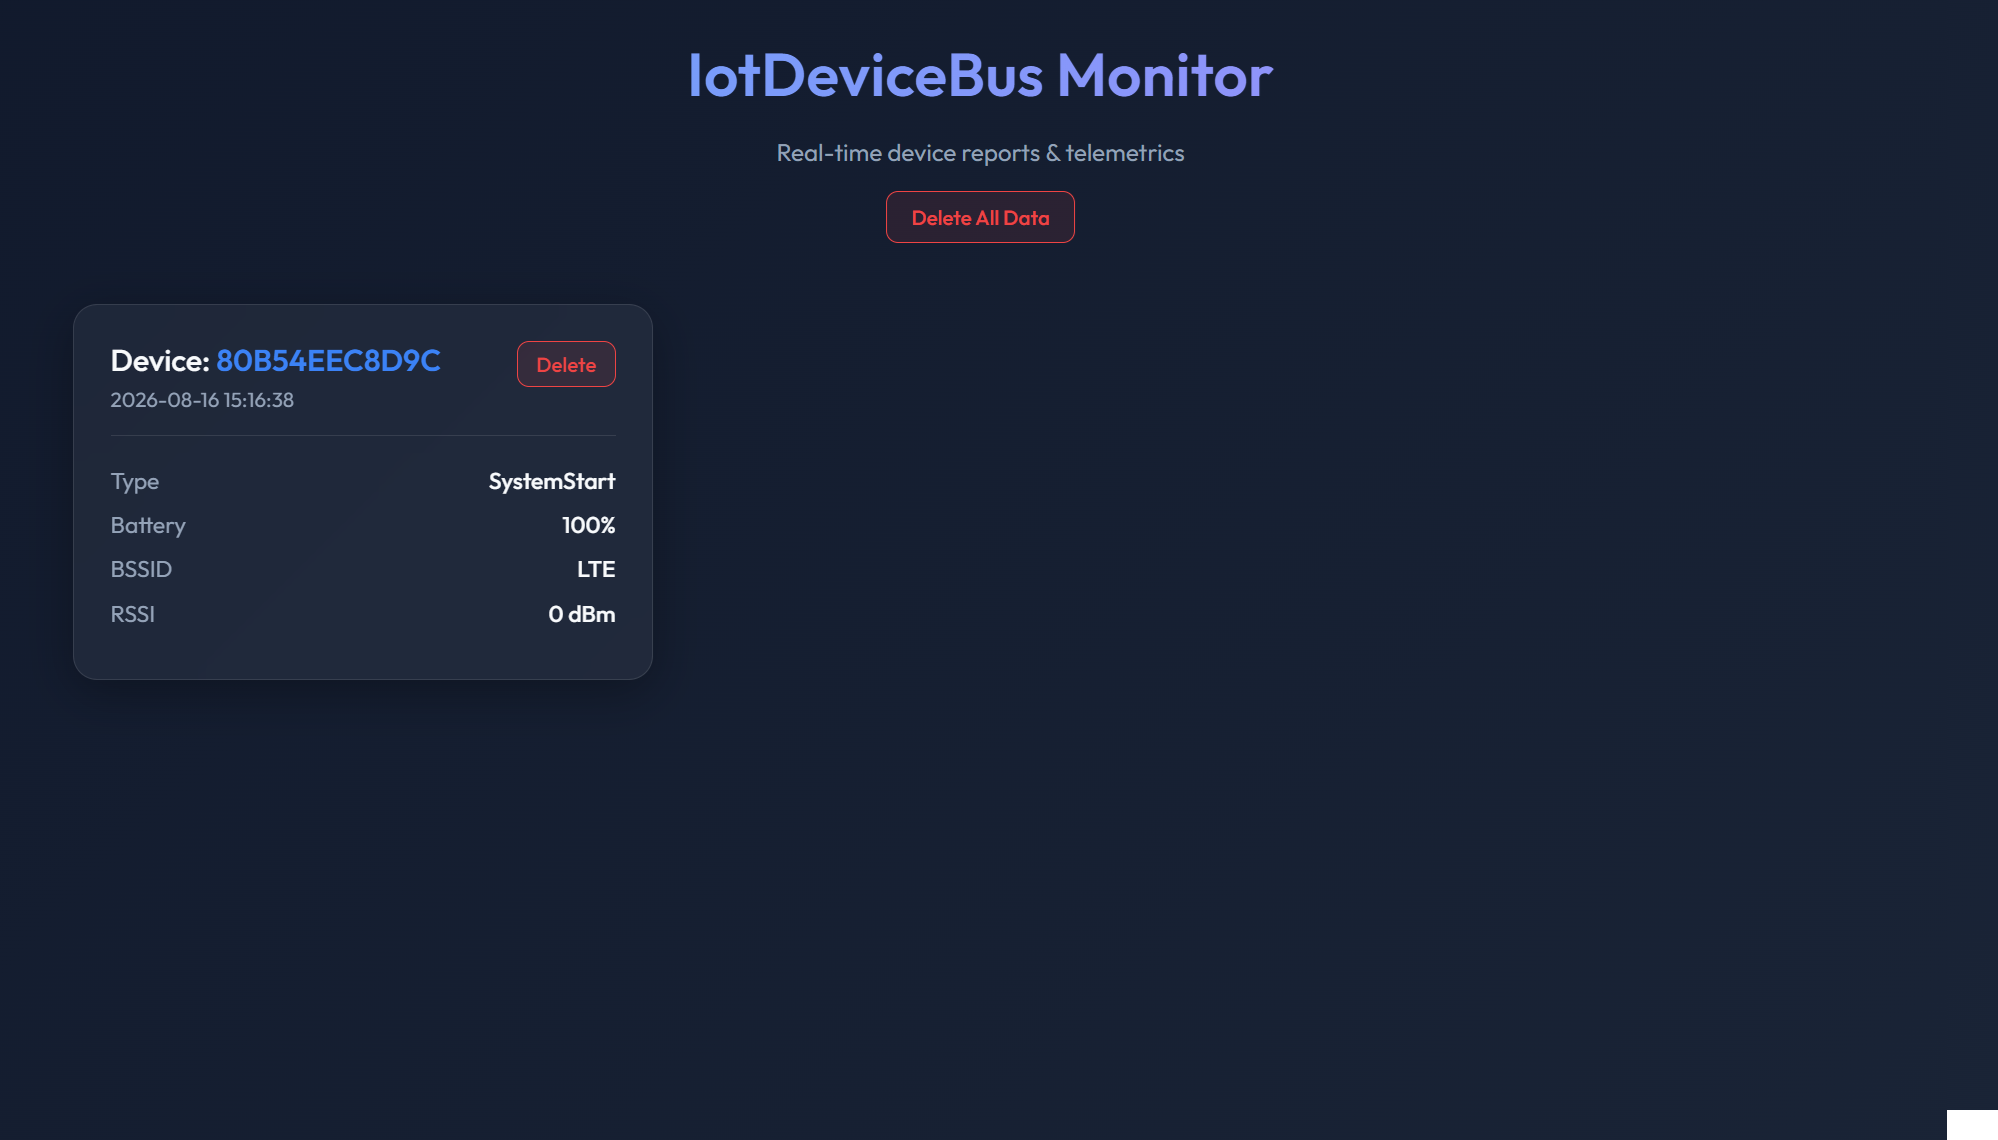
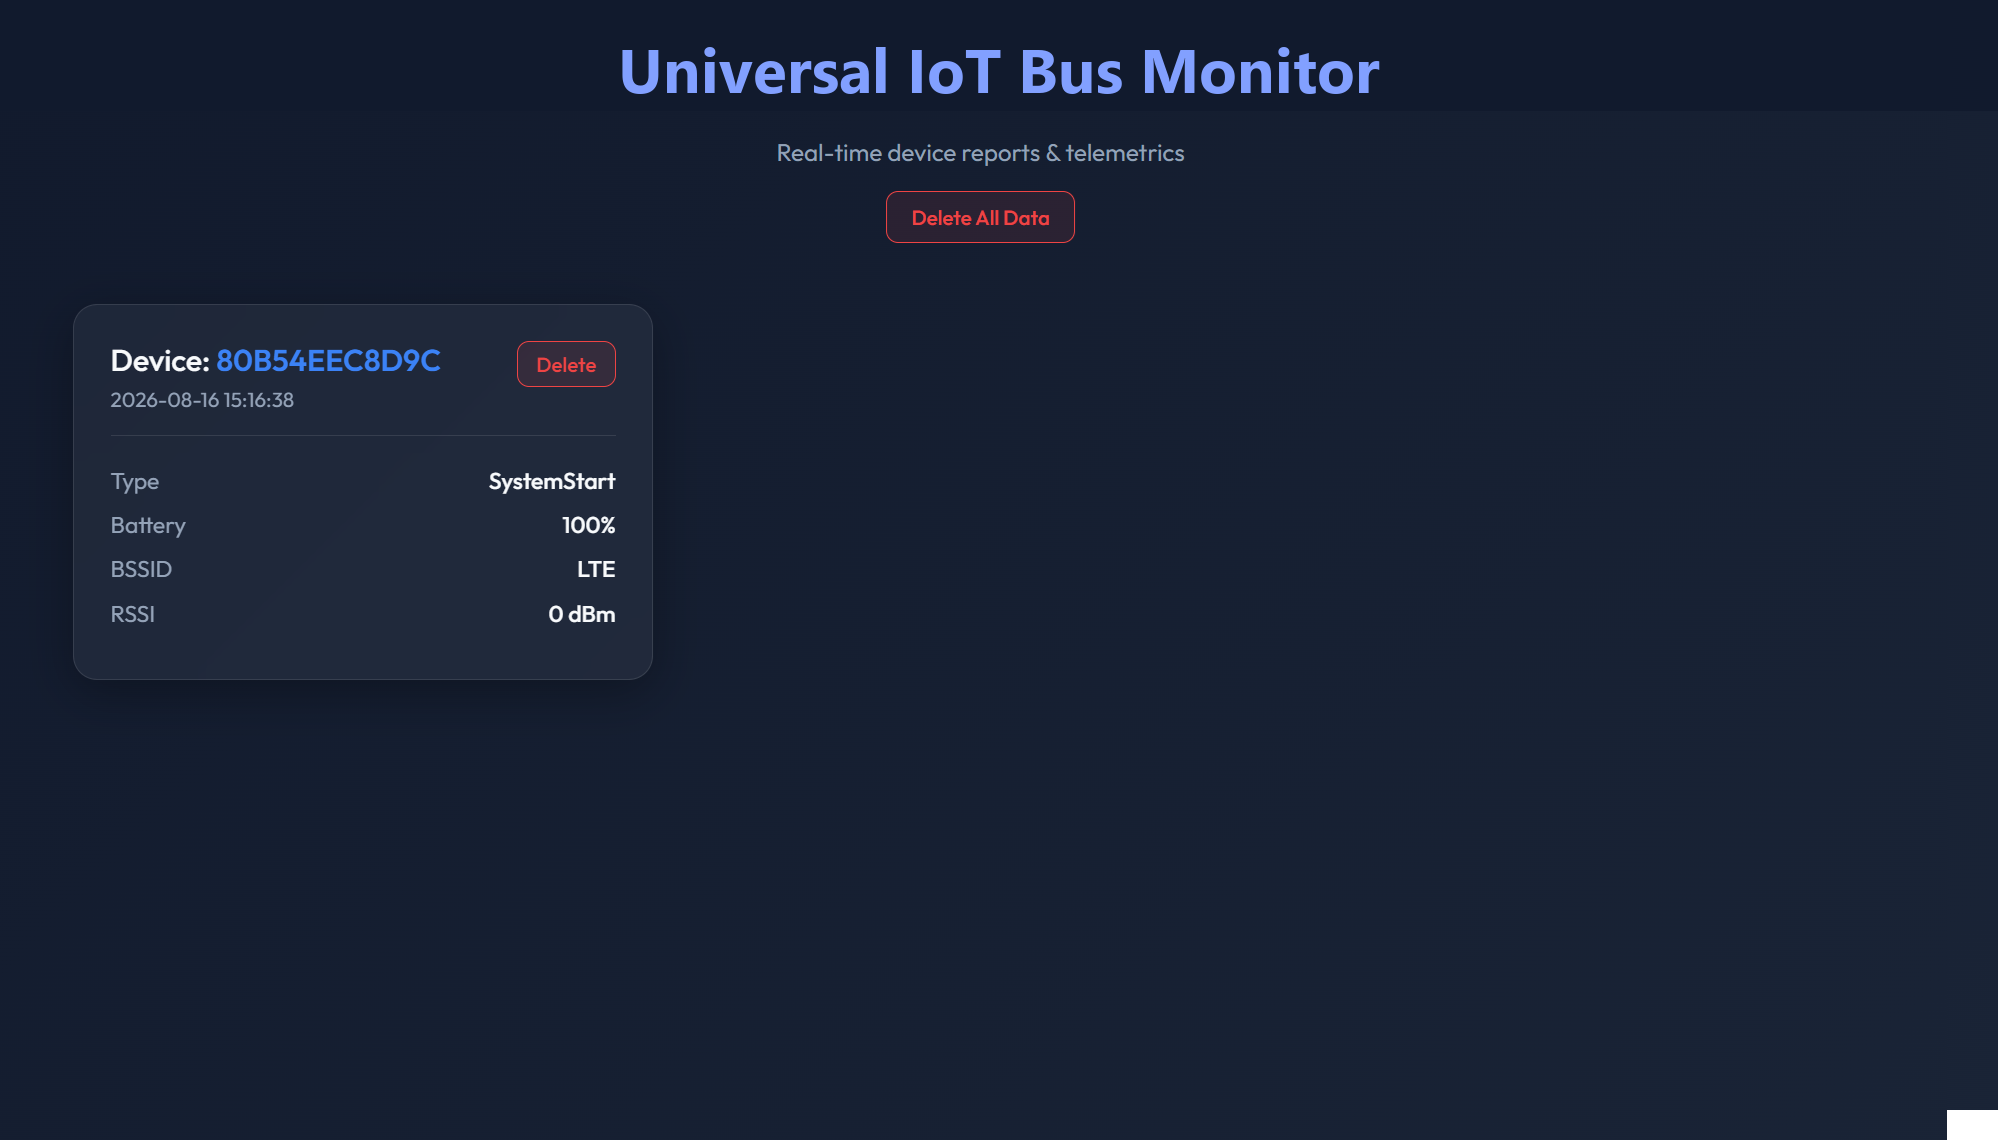
Update internet server Viewer screenshot images (ProtoDemo1.png & ProtoDemo2.png) replacing old title IotDeviceBus with Universal IoT Bus Monitor

Changed region(s): [[0.3103, 0.0307, 0.6827, 0.0921]]

diff --git a/jp/executive-summary.html b/jp/executive-summary.html
@@ -62,7 +62,7 @@
       <p style="margin-top: 1rem; font-weight: 600; color: var(--text-primary);">AI化による圧倒的な資金効率で、自律型グローバル財団を早期確立し、当技術を世界のデファクトスタンダードへと押し上げます。</p>
     </div>
   </div>
-<!-- Build Refreshed: 2026-08-16 17:01:30 -->
+<!-- Build Refreshed: 2026-08-16 17:13:17 -->
   <footer style="margin-top: 4rem; padding: 2rem 0; text-align: center; border-top: 1px solid var(--glass-border); color: var(--text-secondary); font-size: 0.95rem;">
     <p>&copy; 2026 Gontaro Kitazumi. All Rights Reserved.</p>
   </footer>

diff --git a/en/executive-summary.html b/en/executive-summary.html
@@ -62,7 +62,7 @@
       <p style="margin-top: 1rem; font-weight: 600; color: var(--text-primary);">Delivering extraordinary capital efficiency via AI automation to establish a self-sustaining global foundation.</p>
     </div>
   </div>
-<!-- Build Refreshed: 2026-08-16 17:01:30 -->
+<!-- Build Refreshed: 2026-08-16 17:13:17 -->
   <footer style="margin-top: 4rem; padding: 2rem 0; text-align: center; border-top: 1px solid var(--glass-border); color: var(--text-secondary); font-size: 0.95rem;">
     <p>&copy; 2026 Gontaro Kitazumi. All Rights Reserved.</p>
   </footer>

diff --git a/en/pitch-deck.html b/en/pitch-deck.html
@@ -289,7 +289,7 @@
       revealElements.forEach(el => observer.observe(el));
     });
   </script>
-<!-- Build Refreshed: 2026-08-16 17:01:30 -->
+<!-- Build Refreshed: 2026-08-16 17:13:17 -->
   <footer style="margin-top: 4rem; padding: 2rem 0; text-align: center; border-top: 1px solid var(--glass-border); color: var(--text-secondary); font-size: 0.95rem;">
     <p>&copy; 2026 Gontaro Kitazumi. All Rights Reserved.</p>
   </footer>

diff --git a/jp/pitch-deck.html b/jp/pitch-deck.html
@@ -283,7 +283,7 @@
       revealElements.forEach(el => observer.observe(el));
     });
   </script>
-<!-- Build Refreshed: 2026-08-16 17:01:30 -->
+<!-- Build Refreshed: 2026-08-16 17:13:17 -->
   <footer style="margin-top: 4rem; padding: 2rem 0; text-align: center; border-top: 1px solid var(--glass-border); color: var(--text-secondary); font-size: 0.95rem;">
     <p>&copy; 2026 Gontaro Kitazumi. All Rights Reserved.</p>
   </footer>

diff --git a/en/angel-pitch.html b/en/angel-pitch.html
@@ -150,7 +150,7 @@
     </div>
 
   </div>
-<!-- Build Refreshed: 2026-08-16 17:01:30 -->
+<!-- Build Refreshed: 2026-08-16 17:13:17 -->
   <footer style="margin-top: 4rem; padding: 2rem 0; text-align: center; border-top: 1px solid var(--glass-border); color: var(--text-secondary); font-size: 0.95rem;">
     <p>&copy; 2026 Gontaro Kitazumi. All Rights Reserved.</p>
   </footer>

diff --git a/en/qa.html b/en/qa.html
@@ -176,7 +176,7 @@
     </div>
 
   </div>
-<!-- Build Refreshed: 2026-08-16 17:01:30 -->
+<!-- Build Refreshed: 2026-08-16 17:13:17 -->
   <footer style="margin-top: 4rem; padding: 2rem 0; text-align: center; border-top: 1px solid var(--glass-border); color: var(--text-secondary); font-size: 0.95rem;">
     <p>&copy; 2026 Gontaro Kitazumi. All Rights Reserved.</p>
   </footer>

diff --git a/jp/angel-pitch.html b/jp/angel-pitch.html
@@ -149,7 +149,7 @@
     </div>
 
   </div>
-<!-- Build Refreshed: 2026-08-16 17:01:30 -->
+<!-- Build Refreshed: 2026-08-16 17:13:17 -->
   <footer style="margin-top: 4rem; padding: 2rem 0; text-align: center; border-top: 1px solid var(--glass-border); color: var(--text-secondary); font-size: 0.95rem;">
     <p>&copy; 2026 Gontaro Kitazumi. All Rights Reserved.</p>
   </footer>

diff --git a/jp/qa.html b/jp/qa.html
@@ -177,7 +177,7 @@
     </div>
 
   </div>
-<!-- Build Refreshed: 2026-08-16 17:01:30 -->
+<!-- Build Refreshed: 2026-08-16 17:13:17 -->
   <footer style="margin-top: 4rem; padding: 2rem 0; text-align: center; border-top: 1px solid var(--glass-border); color: var(--text-secondary); font-size: 0.95rem;">
     <p>&copy; 2026 Gontaro Kitazumi. All Rights Reserved.</p>
   </footer>

diff --git a/index.html b/index.html
@@ -103,4 +103,4 @@
   </footer>
 </body>
 </html>
-<!-- Build Refreshed: 2026-08-16 17:01:30 -->
+<!-- Build Refreshed: 2026-08-16 17:13:17 -->

diff --git a/en/glossary.html b/en/glossary.html
@@ -390,4 +390,4 @@
   </div>
 </body>
 </html>
-<!-- Build Refreshed: 2026-08-16 17:01:30 -->
+<!-- Build Refreshed: 2026-08-16 17:13:17 -->

diff --git a/jp/glossary.html b/jp/glossary.html
@@ -416,4 +416,4 @@
   </div>
 </body>
 </html>
-<!-- Build Refreshed: 2026-08-16 17:01:30 -->
+<!-- Build Refreshed: 2026-08-16 17:13:17 -->

diff --git a/en/founder.html b/en/founder.html
@@ -240,4 +240,4 @@
 </body>
 </html>
 
-<!-- Build Refreshed: 2026-08-16 17:01:30 -->
+<!-- Build Refreshed: 2026-08-16 17:13:17 -->
